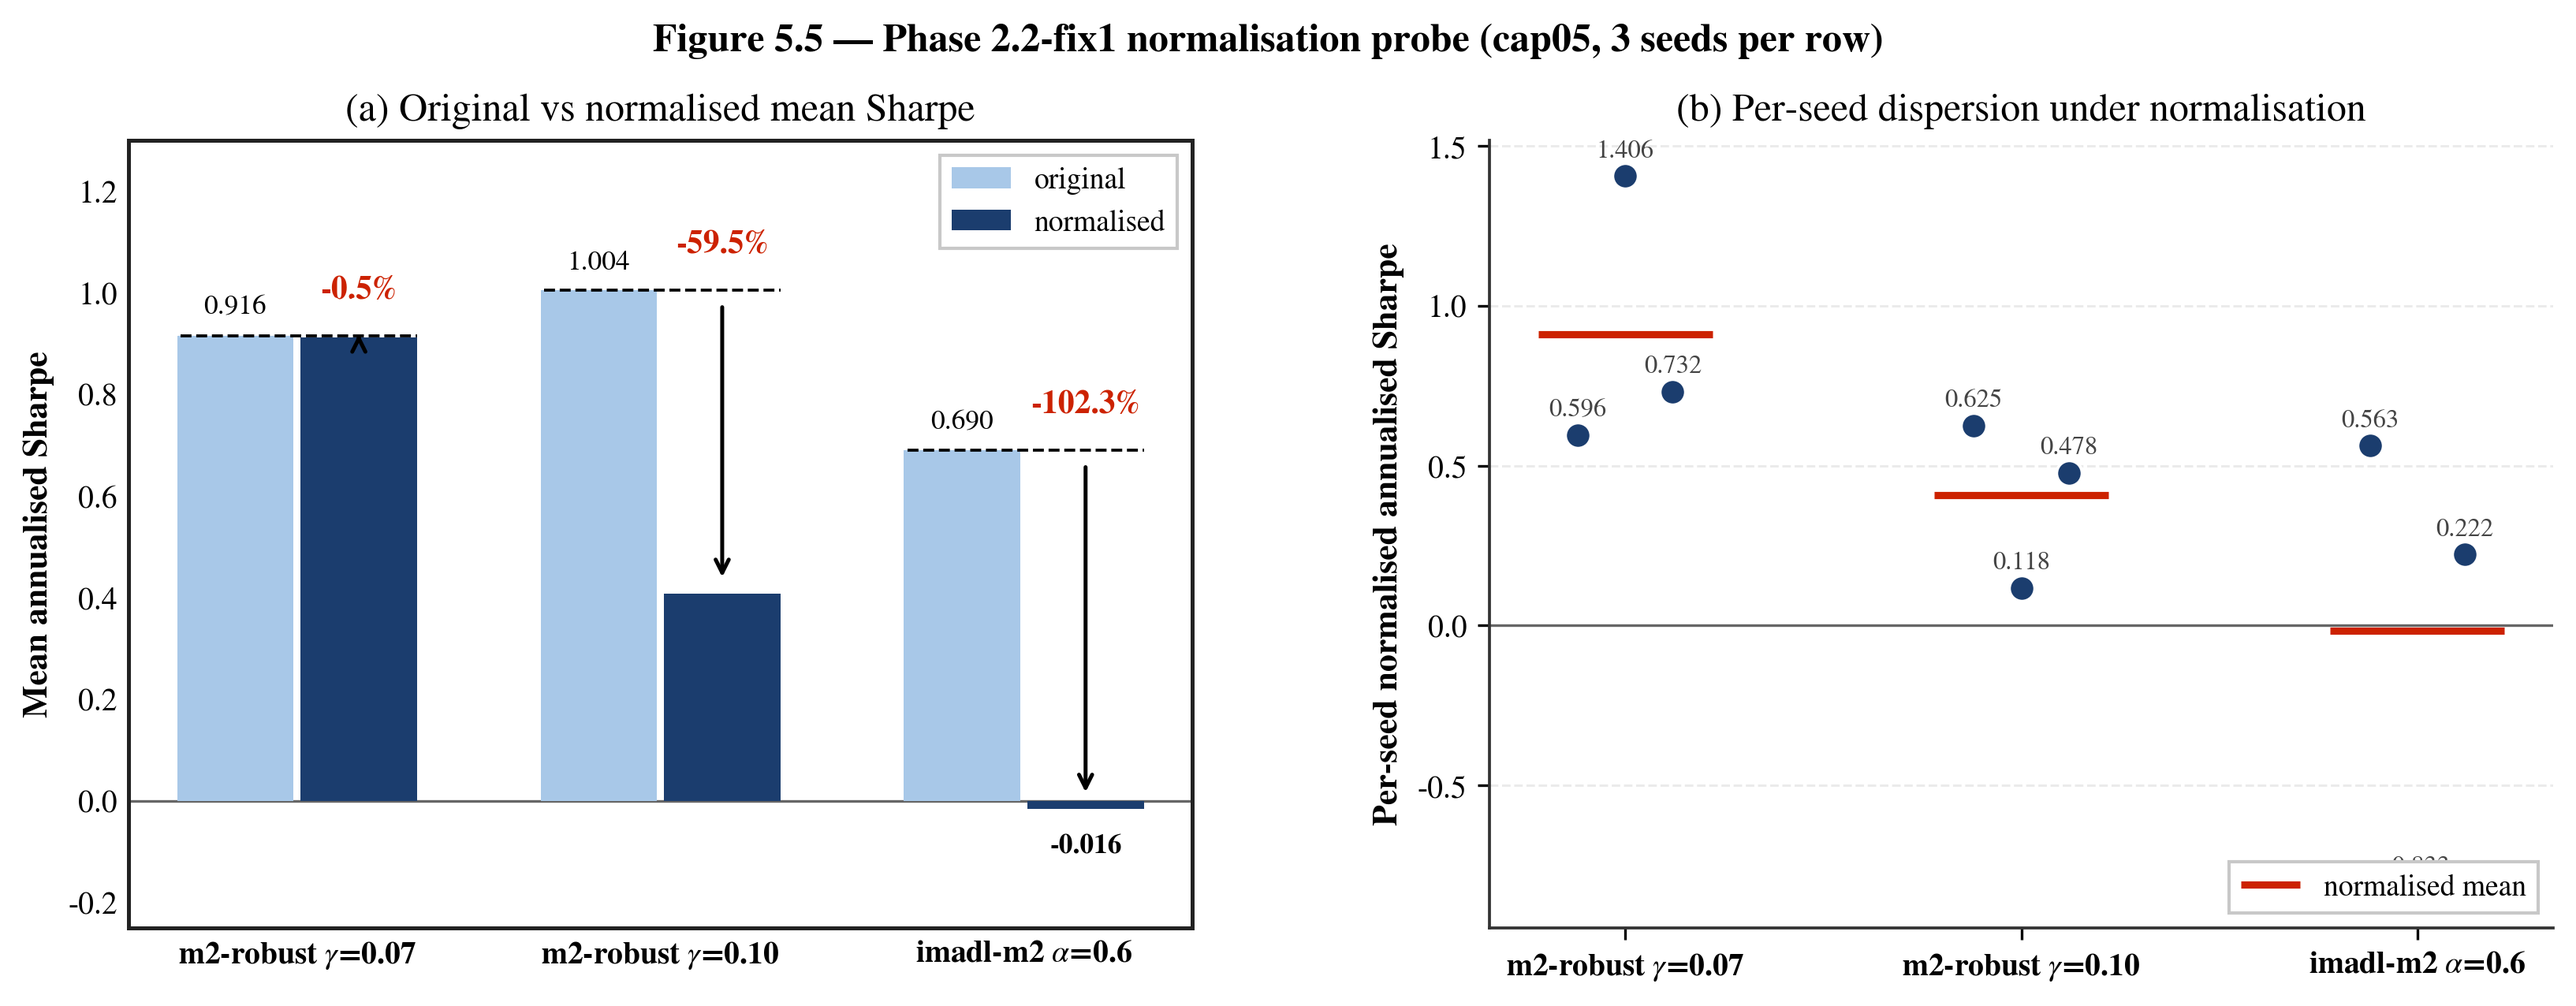
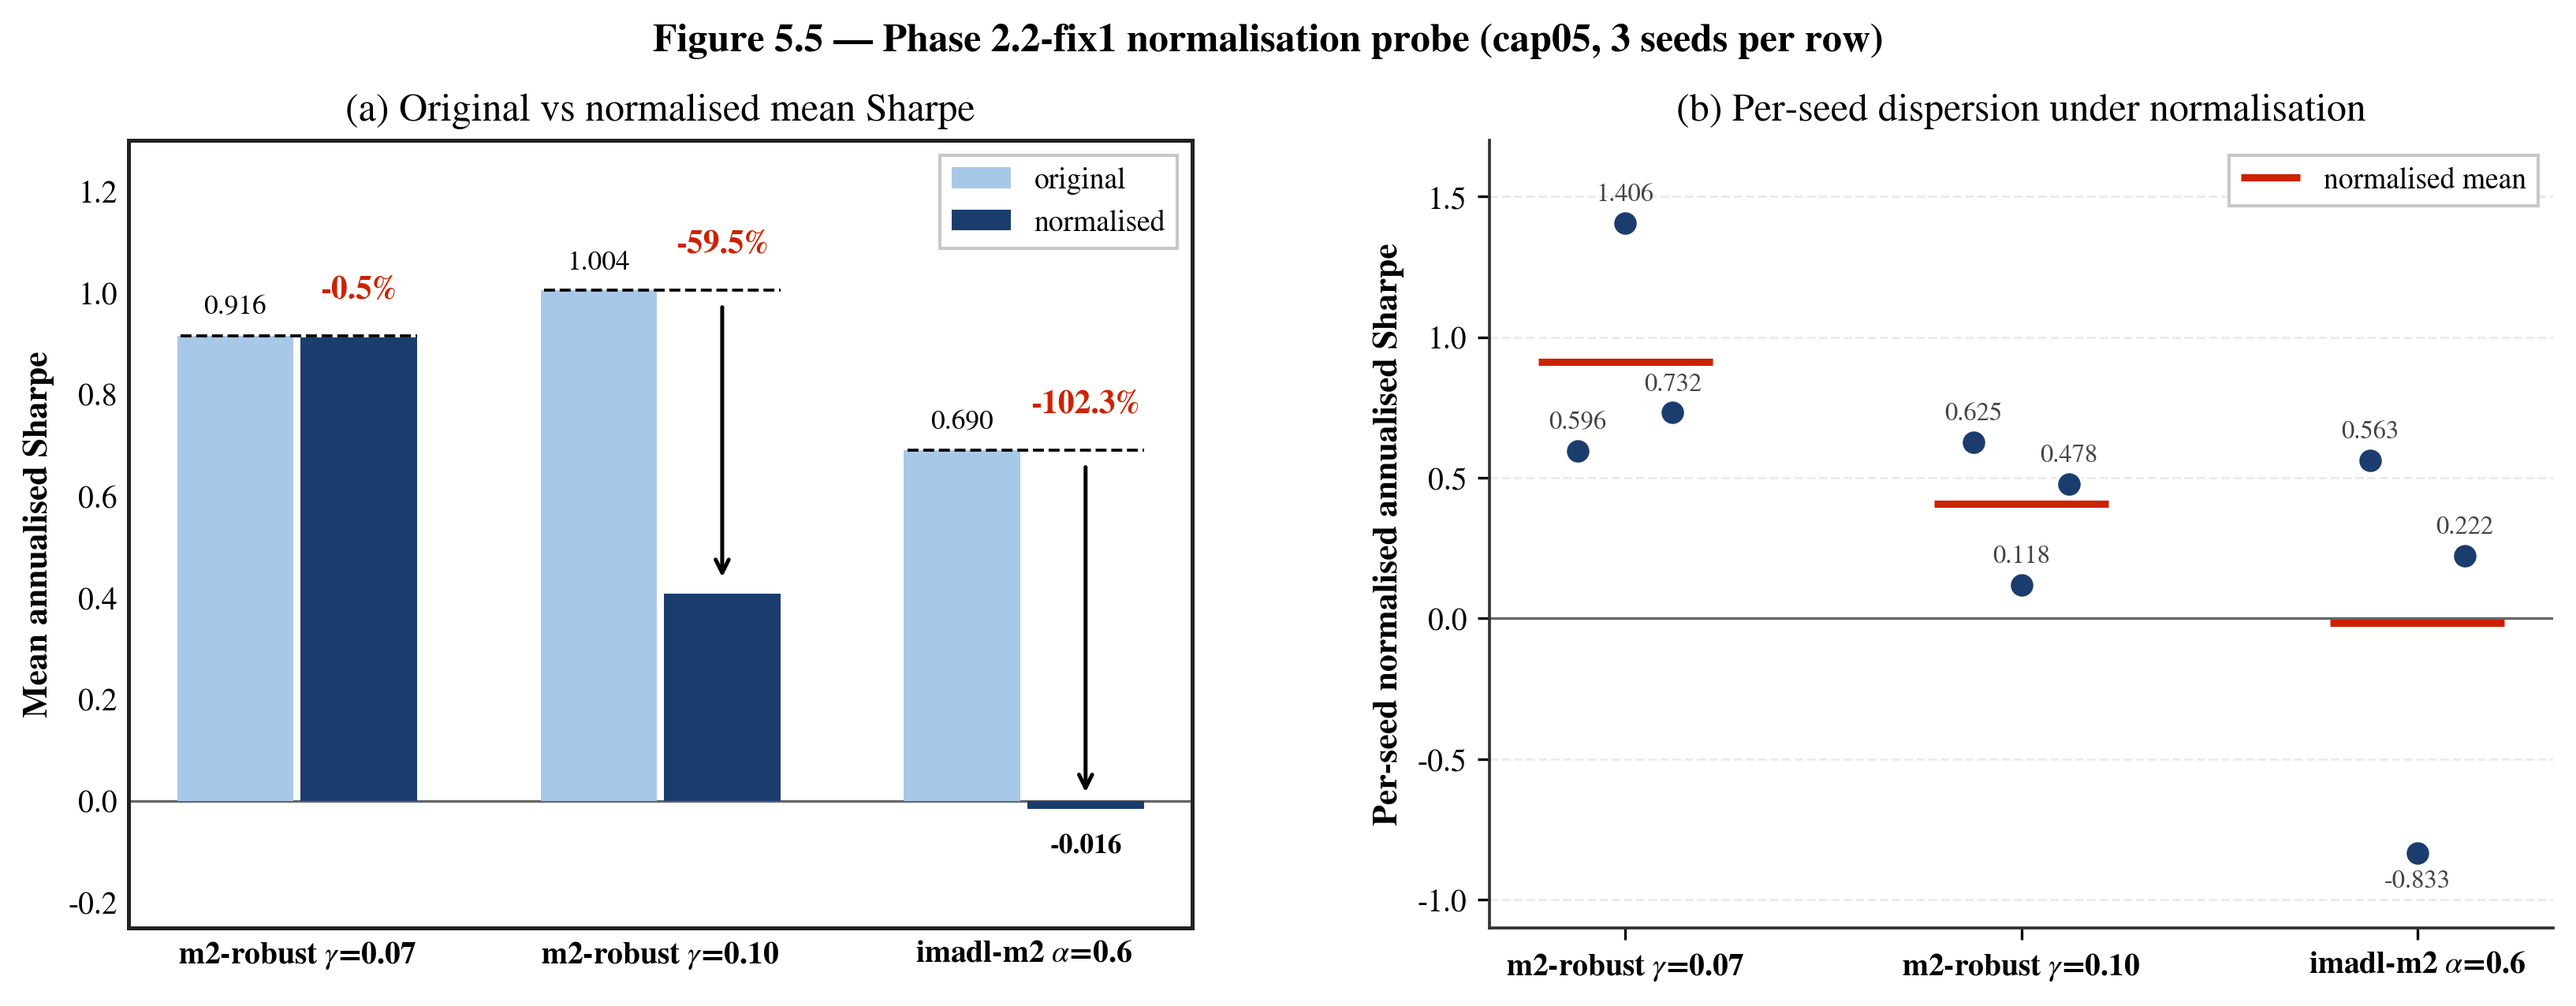
paper: fix Fig 5.5 - skip tiny arrows, move legend clear of -0.833 dot, sign-aware dot labels

diff --git a/paper/figures/plot_normalisation_probe.py b/paper/figures/plot_normalisation_probe.py
@@ -97,16 +97,18 @@ def main() -> None:
             ls="--",
             zorder=4,
         )
-        # Vertical arrow from baseline top to method top.
-        y_start = bl + (0.02 if me > bl else -0.02)
-        y_end = me + (-0.02 if me > bl else 0.02)
-        ax1.annotate(
-            "",
-            xy=(x[i] + (BAR_W + GAP) / 2, y_end),
-            xytext=(x[i] + (BAR_W + GAP) / 2, y_start),
-            arrowprops=dict(arrowstyle="->", color="black", lw=1.2),
-            zorder=5,
-        )
+        # Only draw a directed arrow when the change is material (≥ 0.06 in
+        # absolute Sharpe). Below that, the tiny delta produces messy glyphs.
+        if abs(me - bl) >= 0.06:
+            y_start = bl + (-0.02 if me < bl else 0.02)
+            y_end = me + (0.02 if me < bl else -0.02)
+            ax1.annotate(
+                "",
+                xy=(x[i] + (BAR_W + GAP) / 2, y_end),
+                xytext=(x[i] + (BAR_W + GAP) / 2, y_start),
+                arrowprops=dict(arrowstyle="->", color="black", lw=1.2),
+                zorder=5,
+            )
         # Red delta label
         y_label = max(bl, me) + 0.06
         ax1.text(
@@ -119,7 +121,8 @@ def main() -> None:
             fontsize=10,
             fontweight="bold",
         )
-        # Underlying value labels
+        # Underlying value labels (original above bar, normalised inside if tall
+        # enough, below the tiny negative bar otherwise).
         ax1.text(
             x[i] - (BAR_W + GAP) / 2,
             bl + (0.03 if bl >= 0 else -0.05),
@@ -131,10 +134,10 @@ def main() -> None:
         )
         ax1.text(
             x[i] + (BAR_W + GAP) / 2,
-            me + (0.03 if me >= 0 else -0.05),
+            me + (0.03 if me >= 0.04 else -0.05),
             f"{me:.3f}",
             ha="center",
-            va="bottom" if me >= 0 else "top",
+            va="bottom" if me >= 0.04 else "top",
             fontsize=8.5,
             color="white" if me >= 0.25 else "black",
             fontweight="bold",
@@ -182,10 +185,11 @@ def main() -> None:
         for j, v in zip(jitter, vals):
             ax2.text(
                 i + j,
-                v + 0.06,
+                v + (0.06 if v >= 0 else -0.06),
                 f"{v:.3f}",
                 fontsize=7.8,
                 ha="center",
+                va="bottom" if v >= 0 else "top",
                 color="#444",
             )
 
@@ -197,9 +201,10 @@ def main() -> None:
     style_open_axes(ax2)
     _style.y_grid_only(ax2)
     ax2.tick_params(labelsize=9.5)
+    ax2.set_ylim(-1.1, 1.7)
     ax2.legend(
         fontsize=9,
-        loc="lower right",
+        loc="upper right",
         framealpha=1.0,
         edgecolor="#C8C8C8",
         fancybox=False,
